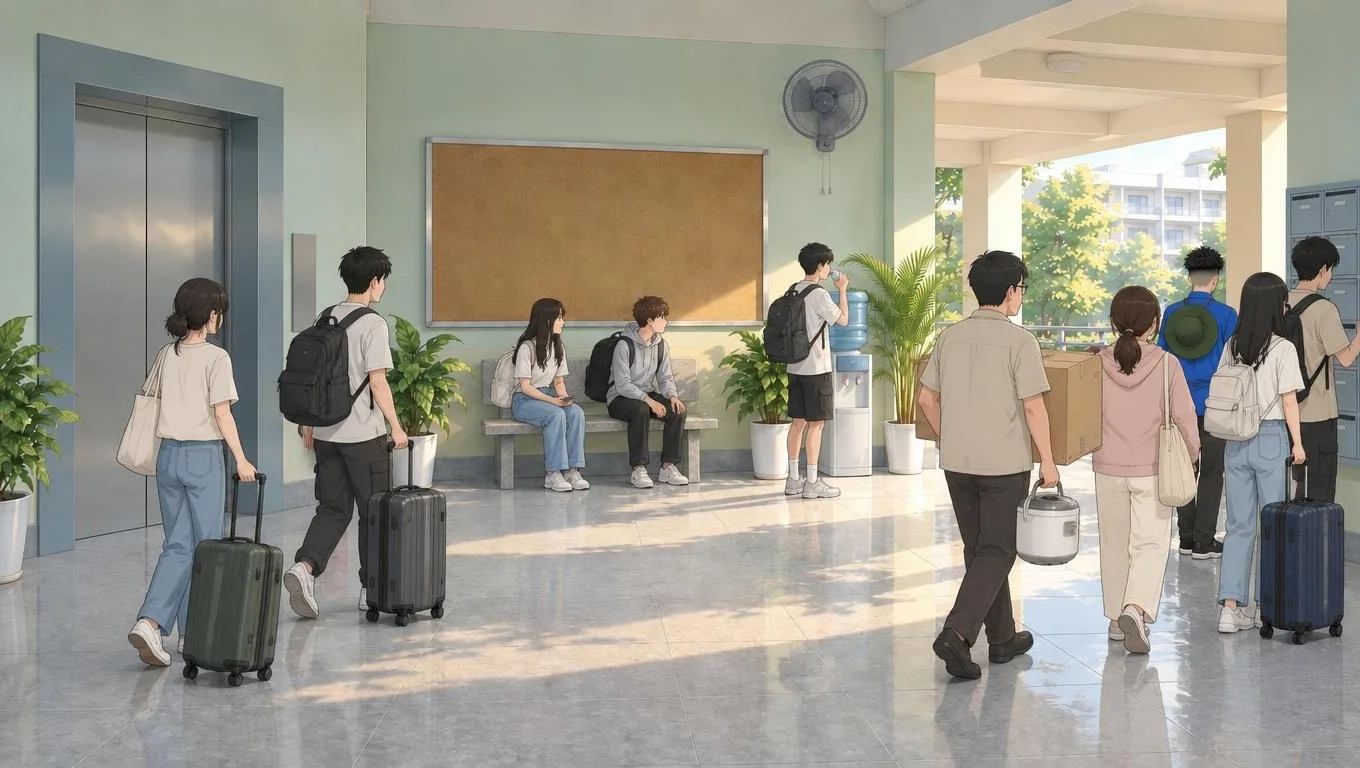
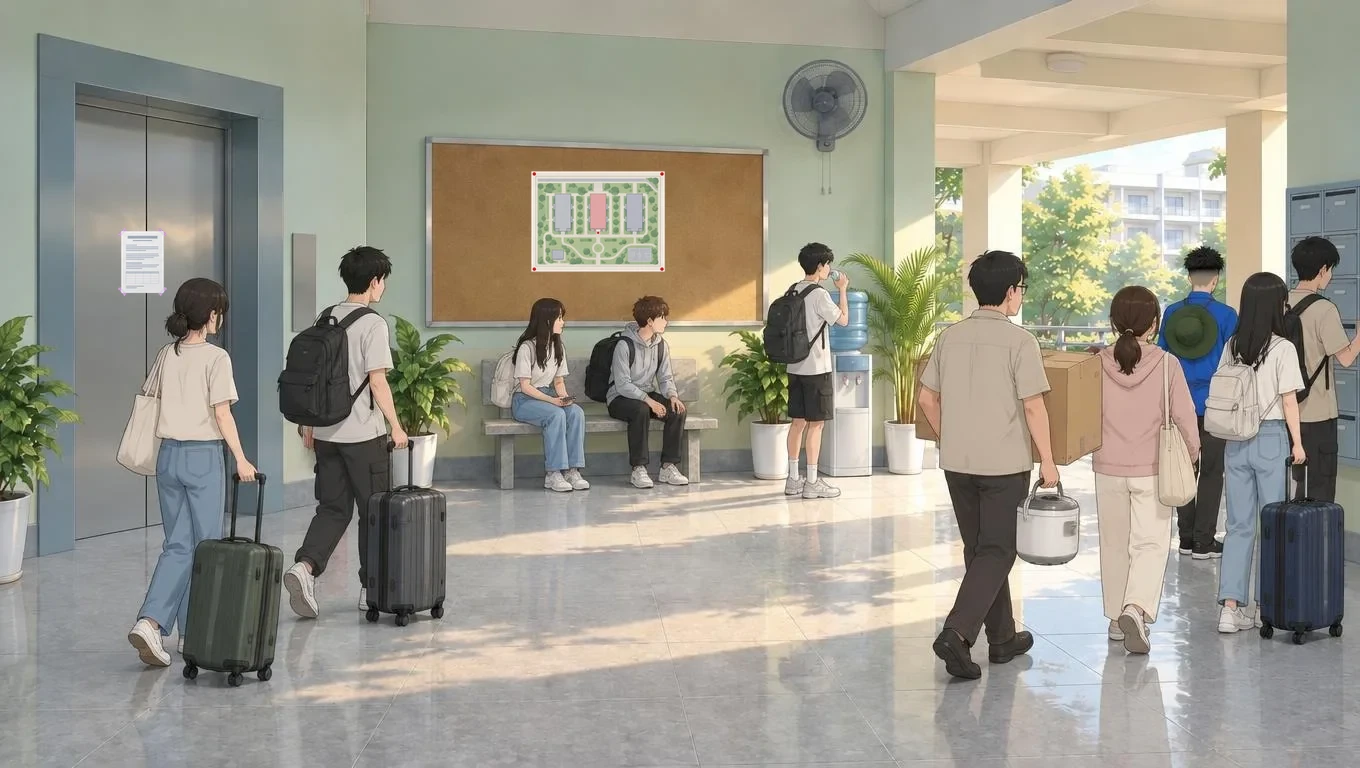
Sảnh KTX: tờ thông báo thang máy và sơ đồ vẽ sẵn vào ảnh nền (trước đây chỉ là vật bấm của cảnh khám phá nên biến mất ở màn soi Tùng và lúc nói chuyện); vật bấm chỉ sáng màu theo nhịp, bỏ viền trắng và quầng loang trông như phình to, bấm vật không co lại (chỉ người). Đã chơi thử cảnh làm quen Trung 

Changed region(s): [[0.3706, 0.2188, 0.4941, 0.375], [0.0618, 0.2812, 0.1235, 0.4062]]

diff --git a/prototype/src/mvp/ui/mvp.css b/prototype/src/mvp/ui/mvp.css
@@ -292,24 +292,23 @@
   pointer-events: none;
   transition: filter 0.12s ease;
 }
-/* Viền trắng bám đường bao trong suốt của ảnh (drop-shadow theo alpha, chồng 4 hướng + quầng mềm). */
+/* Rê / chọn: chỉ sáng màu lên, không viền, không quầng, không đổi cỡ (user 04/10: viền trắng loang trông như vật phình to). */
 .mvp-diem:hover:not(:disabled) .mvp-diem__anh,
 .mvp-diem:focus-visible .mvp-diem__anh {
-  filter: drop-shadow(2px 0 0 #fff) drop-shadow(-2px 0 0 #fff) drop-shadow(0 2px 0 #fff) drop-shadow(0 -2px 0 #fff)
-    drop-shadow(0 0 6px rgba(255, 255, 255, 0.7));
+  filter: brightness(1.3) saturate(1.25);
 }
 .mvp-diem:focus-visible {
   outline: none;
 }
-/* Vật bấm được: con trỏ kính lúp ("xem xét"); người (ảnh `nv:`) giữ bàn tay. Bấm xuống thì vật lún về phía chân
-   (`scale` riêng, không đè `transform` căn chỗ; gốc 0 0 = chân giữa của ảnh sau translate(-50%, -100%)). */
+/* Vật bấm được: con trỏ kính lúp ("xem xét"); người (ảnh `nv:`) giữ bàn tay. Bấm xuống thì chỉ NGƯỜI lún nhẹ về phía chân
+   (`scale` riêng, không đè `transform` căn chỗ; gốc 0 0 = chân giữa của ảnh sau translate(-50%, -100%)); vật thì không đổi cỡ. */
 .mvp-diem:not(:disabled) {
   cursor: zoom-in;
 }
 .mvp-diem.is-nguoi:not(:disabled) {
   cursor: pointer;
 }
-.mvp-diem:active:not(:disabled) {
+.mvp-diem.is-nguoi:active:not(:disabled) {
   transform-origin: 0 0;
   scale: 0.96;
 }
@@ -324,13 +323,12 @@
   opacity: 0.7;
   filter: grayscale(0.6) brightness(0.85);
 }
-/* Cảnh [KHÁM PHÁ] dạy người chơi bấm vật: chỗ chưa xem luôn có viền trắng (nhịp nhẹ); chỗ mới hiện (có "sau:") mờ dần vào. */
+/* Cảnh [KHÁM PHÁ] dạy người chơi bấm vật: chỗ chưa xem sáng màu lên theo nhịp nhẹ (không viền, không quầng, không đổi cỡ:
+   vật thường đã vẽ sẵn trong ảnh nền, ảnh vật chồng khít lên); chỗ mới hiện (có "sau:") mờ dần vào. */
 .mvp-diem--khampha {
   animation: mvp-hien 0.5s ease-out both;
 }
 .mvp-diem--khampha.is-mo .mvp-diem__anh {
-  filter: drop-shadow(2px 0 0 #fff) drop-shadow(-2px 0 0 #fff) drop-shadow(0 2px 0 #fff) drop-shadow(0 -2px 0 #fff)
-    drop-shadow(0 0 6px rgba(255, 255, 255, 0.7));
   animation: mvp-vien 2s ease-in-out infinite;
 }
 @keyframes mvp-hien {
@@ -340,8 +338,7 @@
 }
 @keyframes mvp-vien {
   50% {
-    filter: drop-shadow(2px 0 0 #fff) drop-shadow(-2px 0 0 #fff) drop-shadow(0 2px 0 #fff) drop-shadow(0 -2px 0 #fff)
-      drop-shadow(0 0 14px rgba(255, 255, 255, 0.95));
+    filter: brightness(1.3) saturate(1.25);
   }
 }
 @media (prefers-reduced-motion: reduce) {
@@ -349,7 +346,7 @@
   .mvp-diem--khampha.is-mo .mvp-diem__anh {
     animation: none;
   }
-  .mvp-diem:active:not(:disabled) {
+  .mvp-diem.is-nguoi:active:not(:disabled) {
     scale: none;
   }
 }

diff --git a/prototype/noi-dung-mvp/loi/00-mo-dau.md b/prototype/noi-dung-mvp/loi/00-mo-dau.md
@@ -178,13 +178,13 @@
 - **duy** (smile): Trà ở đầu bàn, mấy đứa tự rót nhé.
 
 ## md-10-soi-vy-sach.1
-- **player**: (Bìa sách bọc giấy báo, gáy viết tay: "Sherlock Holmes, tập hai".)
+- **player**: (Mấy tờ giấy in ôm sát trước ngực. Qua mép giấy thấy dòng tiêu đề in đậm: "Sherlock Holmes".)
 
 ## md-10-soi-vy-kinh.1
 - **player**: (Gọng kính mảnh. Bạn ấy nhìn ai cũng lâu hơn người khác một nhịp.)
 
 ## md-10-gap-ha-vy.2
-- **ha-vy** (neutral): Cậu nhìn tớ lâu thế. Từ sách tới kính rồi đấy.
+- **ha-vy** (neutral): Cậu nhìn tớ lâu thế. Từ tập giấy tới cái kính rồi đấy.
 - **player**: À… cậu cũng vào CLB à?
 - **ha-vy** (neutral): Mới đăng ký. Tớ là {{nv.ha-vy}}, Toán ứng dụng.
 - **tung** (surprised): Hôm Ngày hội tớ không thấy cậu ở bàn CLB.
@@ -240,6 +240,7 @@
 
 ## md-11-tu.1
 - **player**: (Ngăn dưới cùng không kéo ra được. Khóa.)
+- **duy** (neutral): Khóa đấy. Để anh.
 - **narrator**: Duy tháo chùm chìa ở thắt lưng, dò mấy mẩu băng dính, tới chìa thứ ba mới mở được. Một đám bụi bay lên làm Tùng ho sặc.
 - **duy** (neutral): Ngăn này anh chưa kiểm kê. Cứ lôi hết ra bàn.
 - **ha-vy** (day-kinh): Hôm Trung thu mình thấy đôi dép bé tí dưới chiếc đèn. Ở đây cũng vậy thôi: nhìn chỗ người ta không để ý.

diff --git a/prototype/noi-dung-mvp/kich-ban/00-mo-dau.md b/prototype/noi-dung-mvp/kich-ban/00-mo-dau.md
@@ -126,11 +126,11 @@ SELECT ma_sv, ho_dem, ten, nganh FROM tra_cuu_k24 WHERE ten = 'Tùng' AND nganh 
 ### md-10-gap-ha-vy — Trung thu: người chơi tự tới chào bạn nữ đứng tách ra cạnh bảng tin {cảnh: san-ktx-trung-thu}
 
 - [KHÁM PHÁ kp-soi-ha-vy · quan sát ha-vy]
-  - vung:sach · x 57% · y 56% · rộng 26% → md-10-soi-vy-sach · nhãn: Quyển sách
+  - vung:sach · x 57% · y 56% · rộng 26% → md-10-soi-vy-sach · nhãn: Tập giấy trên tay
   - vung:kinh · x 52% · y 24% · rộng 30% → md-10-soi-vy-kinh · nhãn: Cặp kính
 - [LỜI md-10-gap-ha-vy.2]
 
-### md-10-soi-vy-sach — Quan sát Hà Vy: quyển sách bọc giấy báo {cảnh: san-ktx-trung-thu}
+### md-10-soi-vy-sach — Quan sát Hà Vy: tập giấy ôm trước ngực {cảnh: san-ktx-trung-thu}
 
 - [LỜI md-10-soi-vy-sach.1]
 
